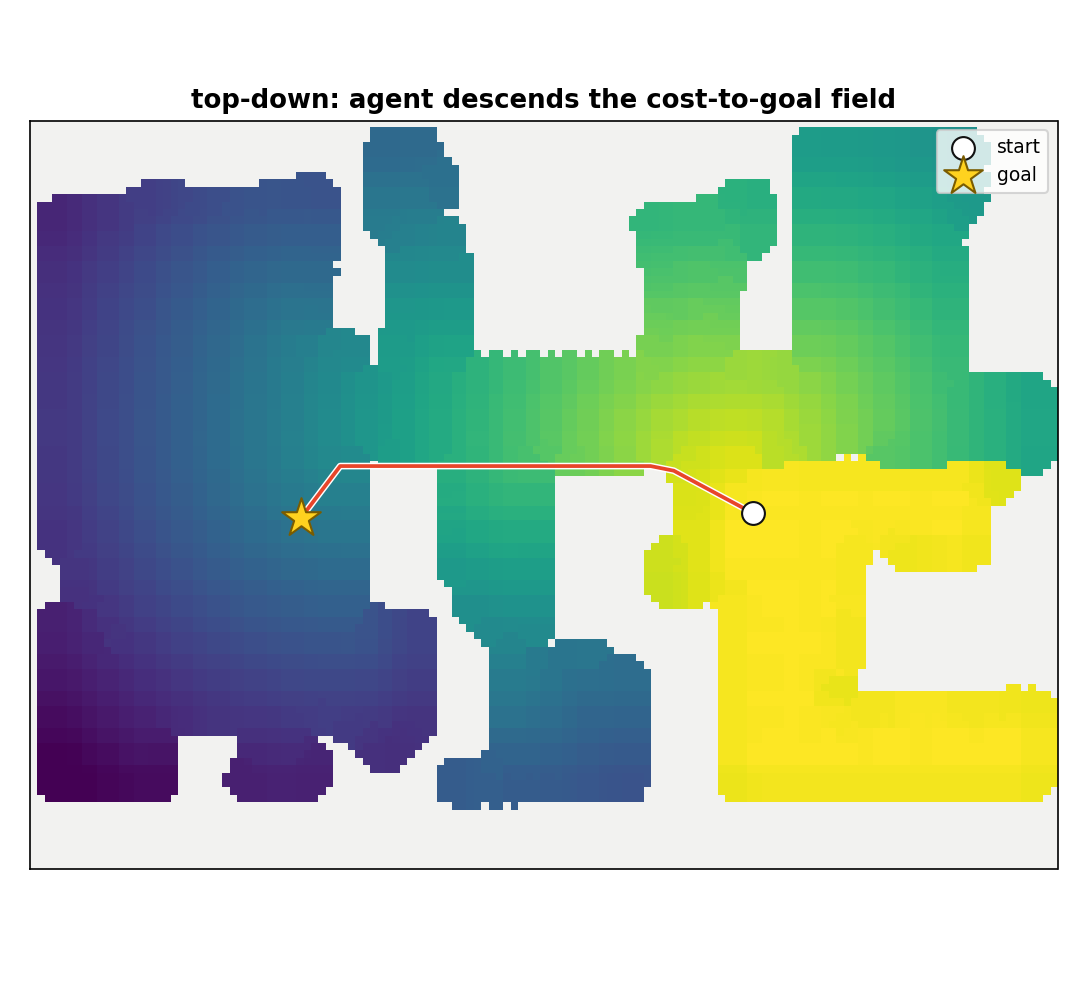
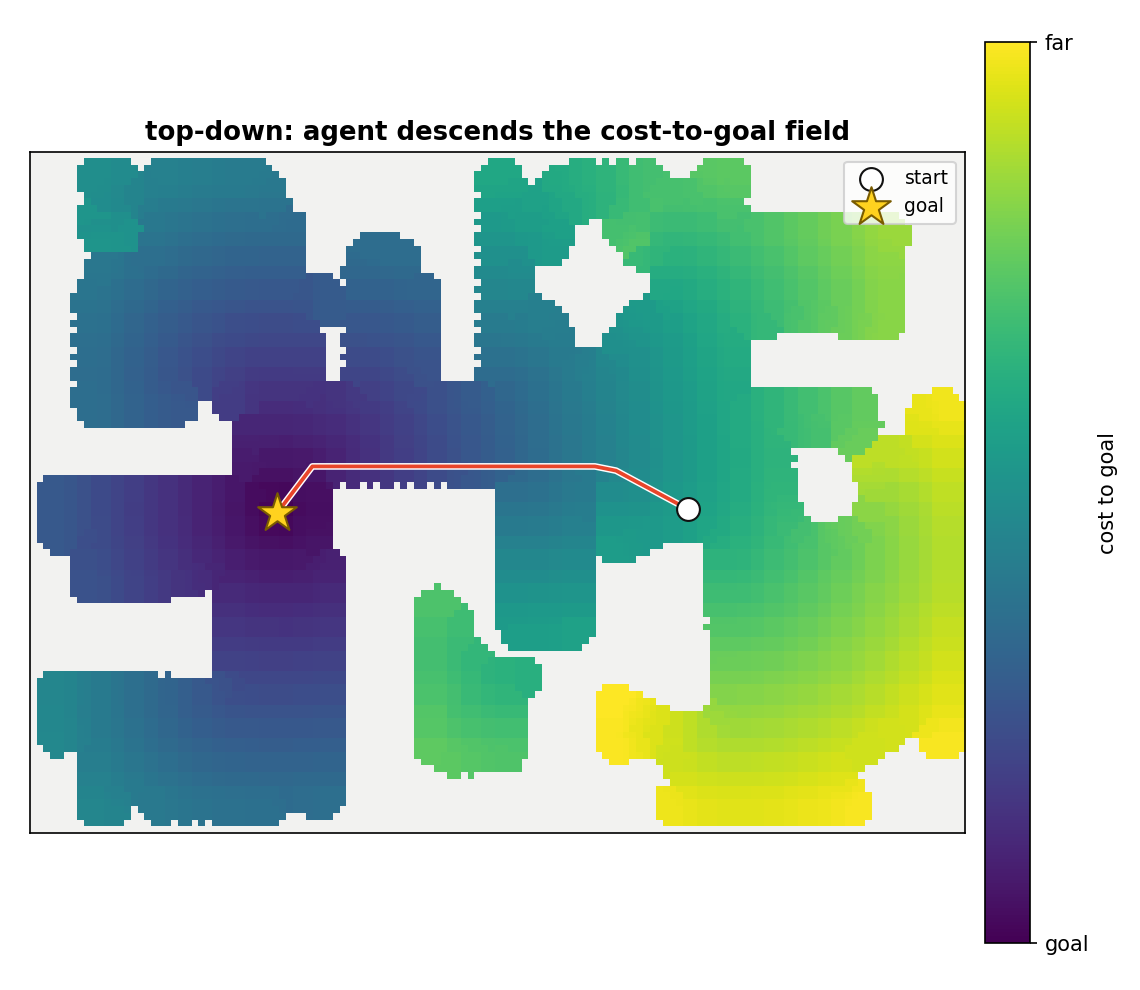
Rollout gallery: 4 slowed demos (bed/tv/sofa/chair), fixed cost-field colormap + colorbar

diff --git a/docs/index.html b/docs/index.html
@@ -177,15 +177,21 @@
     </figure>
     <h3 class="has-text-centered" style="margin-top:1.7rem">The costmap in action</h3>
     <figure style="margin:0.7rem 0">
-      <img src="figs/rollout.gif" alt="Agent navigating with its live cost-to-goal costmap" style="width:100%;max-width:780px;display:block;margin:0 auto;border:1px solid var(--line);border-radius:8px">
-      <img src="figs/rollout_topdown.png" alt="Top-down trajectory descending the cost-to-goal field" style="width:100%;max-width:520px;display:block;margin:1rem auto 0;border:1px solid var(--line);border-radius:8px">
+      <img src="figs/rollout_bed.gif" alt="Agent navigating with its live cost-to-goal costmap" style="width:100%;max-width:780px;display:block;margin:0 auto;border:1px solid var(--line);border-radius:8px">
+      <img src="figs/rollout_topdown.png" alt="Top-down trajectory descending the cost-to-goal field" style="width:100%;max-width:560px;display:block;margin:1rem auto 0;border:1px solid var(--line);border-radius:8px">
       <figcaption class="has-text-centered">A rollout on a real held-out HM3D scene (find the
       <em>bed</em>). <strong>Top</strong> — the agent's first-person view (left) beside the live
       cost-to-goal costmap over that view (right): dark = low geodesic distance to the goal, and
       the dark region draws closer as the agent advances. <strong>Bottom</strong> — the top-down
-      path, descending the cost field from high (yellow) to zero at the goal (purple).
-      Navigating <em>is</em> just descending the costmap.</figcaption>
+      path, descending the cost field from far (yellow) into the goal (dark). Navigating
+      <em>is</em> just descending the costmap.</figcaption>
     </figure>
+    <p class="has-text-centered" style="color:var(--ink2);margin-top:1.3rem;margin-bottom:.3rem">More rollouts across other held-out houses:</p>
+    <div class="columns">
+      <div class="column"><img src="figs/rollout_tv.gif" alt="find the tv_monitor" style="width:100%;border:1px solid var(--line);border-radius:8px"><p class="figstep has-text-centered">find the tv</p></div>
+      <div class="column"><img src="figs/rollout_sofa.gif" alt="find the sofa" style="width:100%;border:1px solid var(--line);border-radius:8px"><p class="figstep has-text-centered">find the sofa</p></div>
+      <div class="column"><img src="figs/rollout_chair.gif" alt="find the chair" style="width:100%;border:1px solid var(--line);border-radius:8px"><p class="figstep has-text-centered">find the chair</p></div>
+    </div>
   </div>
 </section>
 
